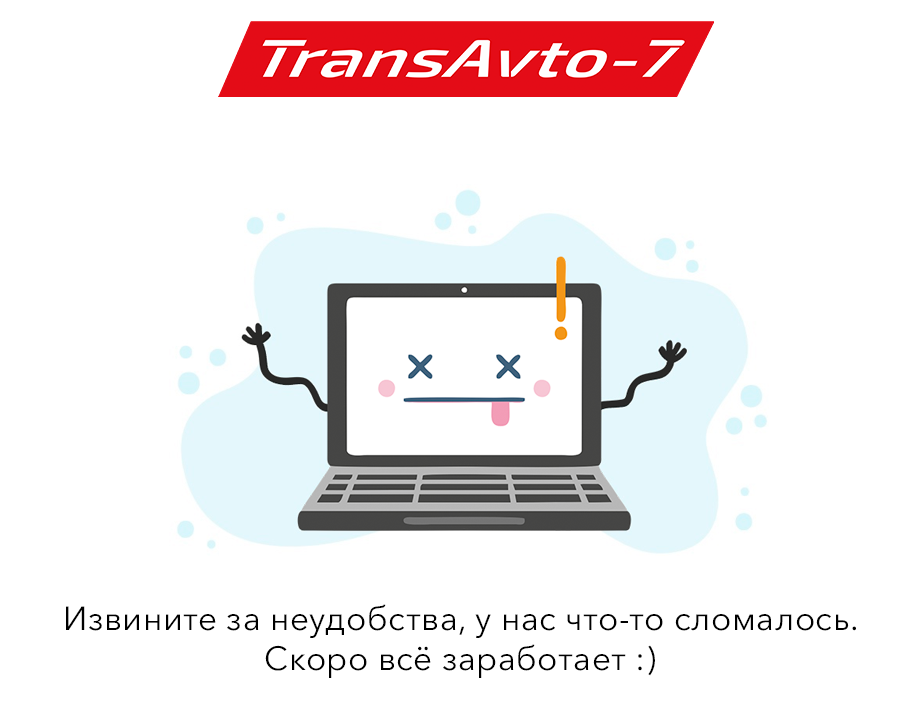
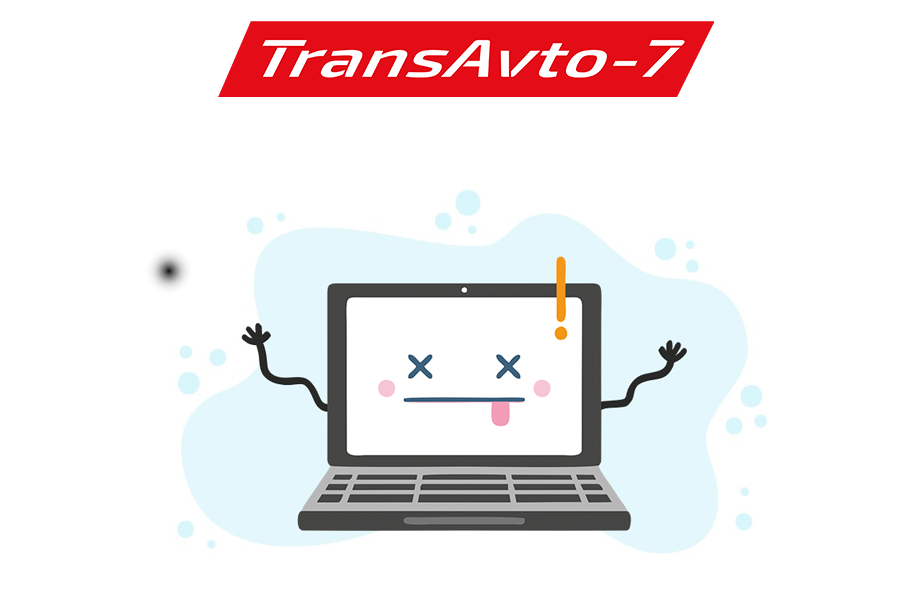
fix: шаблоны страниц ошибок
- на страницах убрано обращение к БД, шаблоны сделаны легковесными

Changed region(s): [[0.0611, 0.24, 0.9476, 0.93], [0.2445, 0.03, 0.7948, 0.18], [0.1528, 0.42, 0.2445, 0.54]]

diff --git a/resources/views/errors/error.blade.php b/resources/views/errors/error.blade.php
@@ -1,0 +1,61 @@
+<!DOCTYPE html>
+<html lang="ru">
+<head>
+    <meta charset="utf-8">
+    <meta name="viewport" content="width=device-width, initial-scale=1, shrink-to-fit=no">
+    <meta http-equiv="X-UA-Compatible" content="IE=edge">
+    <meta name="robots" content="all,follow">
+    <!-- CSRF Token -->
+    <meta name="csrf-token" content="{{ csrf_token() }}">
+    <meta http-equiv="Content-Security-Policy" content="upgrade-insecure-requests">
+
+    <title>{{ config('app.name', 'TransAvto-7') }}</title>
+
+    <link href="{{ mix('css/app.css') }}?v={{ time() }}" rel="stylesheet" type="text/css">
+    <link rel="shortcut icon" href="/favicon.ico">
+</head>
+<body>
+
+<div id="app" class="page page--error">
+    <header class="header no-print">
+        <nav class="navbar">
+            <div class="container-fluid">
+                <div class="navbar-holder d-flex align-items-center justify-content-between">
+                    <!-- Navbar Header-->
+                    <div class="navbar-header">
+                        <!-- Navbar Brand -->
+                        <a href="/" class="navbar-brand d-none d-sm-inline-block">
+                            {{ config('app.name', 'TransAvto-7') }}
+                        </a>
+                    </div>
+                </div>
+            </div>
+        </nav>
+    </header>
+
+    <main class="page-content d-flex align-items-stretch">
+        <div class="container text-center">
+            <div class="row">
+                <div class="col-12">
+                    <img src="{{ asset('images/error.png') }}" width="80%" alt="" />
+                </div>
+            </div>
+            <div class="row mt-3">
+                <div class="col-12">
+                    <h1 class="text-muted">@yield('message')</h1>
+                </div>
+            </div>
+            <div class="row">
+                <div class="col-12">
+                    <h1>
+                        <a href="/">
+                            На главную
+                        </a>
+                    </h1>
+                </div>
+            </div>
+        </div>
+    </main>
+</div>
+</body>
+</html>

diff --git a/resources/views/errors/503.blade.php b/resources/views/errors/503.blade.php
@@ -1,0 +1,5 @@
+@extends('errors.error')
+
+@section('title', 'Ошибка! Упс')
+
+@section('message', '503 | Приложение находится в режиме сервисного обслуживания!')

diff --git a/resources/views/errors/500.blade.php b/resources/views/errors/500.blade.php
@@ -1,0 +1,5 @@
+@extends('errors.error')
+
+@section('title', 'Ошибка! Упс')
+
+@section('message', '500 | Внутренняя ошибка сервера!')

diff --git a/resources/views/errors/404.blade.php b/resources/views/errors/404.blade.php
@@ -1,0 +1,5 @@
+@extends('errors.error')
+
+@section('title', 'Ошибка! Упс')
+
+@section('message', '404 | Ресурс не найден!')

diff --git a/resources/views/errors/403.blade.php b/resources/views/errors/403.blade.php
@@ -1,0 +1,5 @@
+@extends('errors.error')
+
+@section('title', 'Ошибка! Упс')
+
+@section('message', '403 | Доступ запрещен!')
